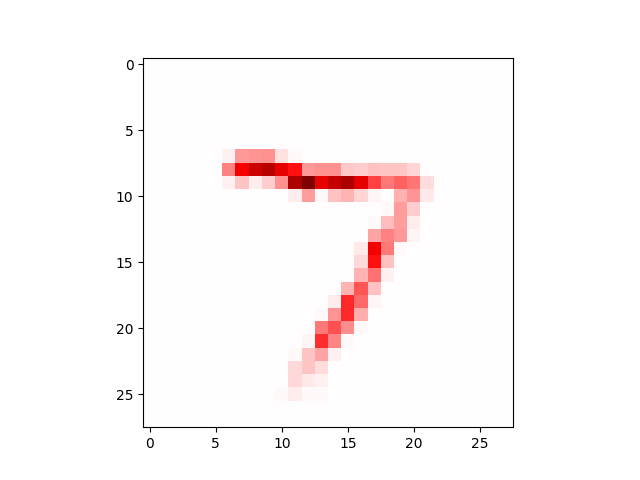
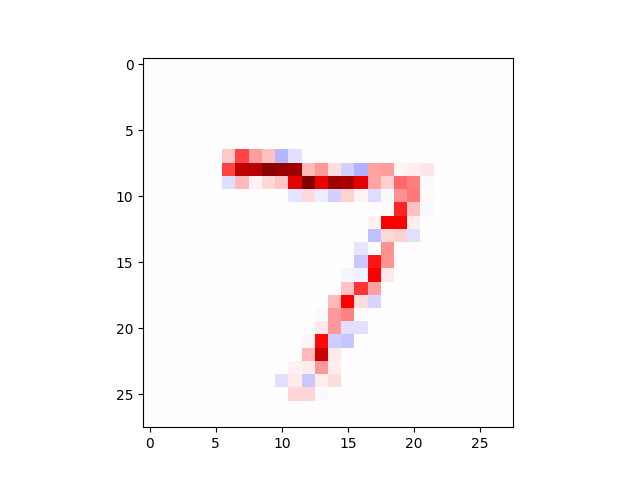
the reverse of LRP works

Changed region(s): [[0.3438, 0.3125, 0.6875, 0.8438]]

diff --git a/examples/Reverse_LRP.py b/examples/Reverse_LRP.py
@@ -6,6 +6,9 @@ from __future__ import \
 
 import numpy as np
 np.random.seed(42)
+import tensorflow.keras.backend as K
+import tensorflow.keras as keras
+import innvestigate.backend as kutils
 import tensorflow.keras.models as kmodels
 # import innvestigate as inn
 from importlib.machinery import SourceFileLoader
@@ -40,9 +43,9 @@ import tensorflow.keras.applications.inception_v3 as inception
 import keras.applications.vgg16 as vgg16
 import keras.applications.resnet as res
 import keras.applications.vgg19 as vgg19
-
+import innvestigate.backend as ibackend
 import keras.applications.inception_v3 as inception
-
+import innvestigate.backend.graph as kgraph
 import matplotlib.pyplot as plt
 import numpy as np
 import tensorflow as tf
@@ -54,36 +57,6 @@ import tensorflow as tf
 # import tensorflow_datasets as tfds
 
 
-@tf.function
-def compute_scaled_jacobian(z_k, s_k, x):
-    """
-    Computes the scaled Jacobian matrix of z_k with respect to x, scaled by s_k.
-    """
-    with tf.GradientTape() as tape:
-        tape.watch(x)
-        z_k_val = z_k(x)
-    jacobian = tape.jacobian(z_k_val, x, unconnected_gradients=tf.UnconnectedGradients.ZERO)
-    scaled_jacobian = tf.einsum('ijk,ik->ijk', jacobian, s_k)
-    return scaled_jacobian
-
-def compute_element_wise_product(a_j, scaled_jacobian):
-    """
-    Computes the element-wise product of activation matrix and scaled Jacobian.
-    """
-    return a_j[:, tf.newaxis] * scaled_jacobian
-
-def compute_relevance_proportion(R_jk, R_j):
-    """
-    Computes the proportion of relevance each neuron in a layer contributed.
-    """
-    return R_jk / tf.reduce_sum(R_jk, axis=-1, keepdims=True)
-
-def propagate_relevance_to_next_layer(P_jk, R_j_prime):
-    """
-    Computes the relevance to be distributed from one layer to the next.
-    """
-    return tf.einsum('ijk,ik->jk', P_jk, R_j_prime)
-
 # @tf.function
 # def forward_relevance_propagation(model, example_image, analysis):
 #     """
@@ -94,25 +67,37 @@ def propagate_relevance_to_next_layer(P_jk, R_j_prime):
 #     return new_relevance_j  # Reverse the list to match the layer order
 
 
-def compute_jacobian(activations, model, layer_index, s_k):
+def compute_jacobian(activations, model, layer_index, R_k):
     """
     Compute the scaled Jacobian matrix for a specific layer.
     """
+    # keep_positives = keras.layers.Lambda(lambda x: x * K.cast(K.greater(x, 0), K.floatx()))
+    # activations_pos = kutils.apply(keep_positives, activations)
+    
+    
+    prepare_div = keras.layers.Lambda(
+            lambda x: x + (K.cast(K.greater_equal(x, 0), K.floatx()) * 2 - 1) * 1e-7)
+    
+
     with tf.GradientTape() as tape:
         tape.watch(activations)
+        # layer = kgraph.copy_layer_wo_activation(
+        #      model.layers[layer_index], keep_bias=True, name_template="reversed_kernel_%s")
         # Forward pass to compute the intermediate activations
         intermediate_output = model.layers[layer_index](activations)
+        # intermediate_output =  kutils.apply(layer, [activations])
     
-    # Compute the Jacobian
     jacobian = tape.jacobian(intermediate_output, activations)
-
-    elements_list = s_k.shape.as_list()
-
+    intermediate_output_eps = prepare_div(intermediate_output)
+    sk = tf.divide(R_k, intermediate_output_eps)
+    # Compute the Jacobian
+    elements_list = list(sk.shape)
     for i in range(len(jacobian.shape) - len(elements_list)):
         elements_list.append(1)
 
-    jacobian = tf.multiply(jacobian, tf.cast(tf.reshape(s_k, elements_list), tf.float32))
-    return jacobian
+    sk_reshaped = tf.reshape(sk, elements_list)
+    jacobian_scaled = tf.multiply(jacobian, sk_reshaped)
+    return intermediate_output, jacobian_scaled, jacobian, intermediate_output_eps
 
 
 
@@ -154,13 +139,13 @@ if __name__ == "__main__":
     model.predict(example_image)
     # plt.show()
 
-    model_wo_softmax = innvestigate.model_wo_softmax(model)
+    # model_wo_softmax = innvestigate.model_wo_softmax(model)
 
     # Create analyzer
-    analyzer = innvestigate.create_analyzer("lrp.alpha_1_beta_0", model_wo_softmax)
+    analyzer = innvestigate.create_analyzer("lrp.epsilon", model)
 
     # Apply analyzer w.r.t. maximum activated output-neuron
-    analysis = analyzer.analyze(example_image)
+    analysis = analyzer.analyze(example_image) 
 
     # Visualize the result
 
@@ -174,43 +159,29 @@ if __name__ == "__main__":
 
     # P_jk = analysis[0]
     
-
-    # graph2 = tf.Graph()
-    # with graph2.as_default():
-    new_relevance_j = []
+    new_relevance_j = tf.cast(tf.convert_to_tensor(analysis[0]), tf.float32)
     J_kj_list = []
-    new_relevance_j.append(tf.cast(tf.convert_to_tensor(analysis[0]), tf.float32))
     a_j = tf.cast(tf.convert_to_tensor(example_image), tf.float32)
 
     for j in range(num_layers):  # Iterate backwards through layers
-        R_j = analysis[-(j+1)]
-        R_k = analysis[-(j+2)]
+        R_j = tf.convert_to_tensor(analysis[-(j+1)])
+        print(R_j)
+        R_k = tf.convert_to_tensor(analysis[-(j+2)])
+        print(R_k)
         # Compute scaled Jacobian matrix
-        
 
-        # intermediate_model = tf.keras.Model(inputs=model.input, outputs=model.layers[j].output)
-        # a_k = tf.convert_to_tensor(intermediate_model.predict(example_image))
-
-        intermediate_layer = model.get_layer(index=j)
-        a_k = intermediate_layer(a_j)
-        
-
-        s_k = tf.math.divide_no_nan(R_k, a_k)
-        J_kj_list.append(s_k)
-
-        J_kj = compute_jacobian(a_j, model, j, s_k)
+        a_k, J_kj, J_orig, a_k_eps = compute_jacobian(a_j, model, j, R_k)
        
-        
         perm_from_kj_to_jk =[]
         perm_from_jk_to_kj =[]
-        size_sk = len(s_k.shape)     
+        size_sk = len(R_k.shape)     
         size_Rj = len(R_j.shape)     
         
         for i in range(len(R_j.shape)):
             index = size_sk+ i
             perm_from_kj_to_jk.append(index)  
 
-        for i in range(len(s_k.shape)):
+        for i in range(len(R_k.shape)):
             index = size_Rj+ i
             perm_from_kj_to_jk.append(i) 
             perm_from_jk_to_kj.append(index)  
@@ -218,13 +189,23 @@ if __name__ == "__main__":
         for i in range(len(R_j.shape)):   
             perm_from_jk_to_kj.append(i)   
 
+        
+        # # A_jk =  tf.math.multiply(a_j, tf.ones_like(J_kj))
+        # A_jk = tf.math.multiply(a_j, tf.ones_like(R_k))
+        # A_jk =  tf.transpose(A_kj, perm_from_kj_to_jk)
 
-        # A_jk =  tf.math.multiply(a_j, tf.ones_like(J_kj))
-        A_kj = tf.math.multiply(a_j, tf.ones_like(J_kj))
-        A_jk =  tf.transpose(A_kj, perm_from_kj_to_jk)
+        elements_list = list(a_j.shape)
 
-        # Step 3: Element-wise product and division
-        R_jk = tf.math.multiply(A_jk, tf.transpose(J_kj, perm_from_kj_to_jk))
+        for i in range(len(J_kj.shape) - len(elements_list)):
+            elements_list.append(1)
+
+        a_j_reshaped = tf.reshape(a_j, elements_list)
+
+        # # Step 3: Element-wise product and division
+        R_jk = tf.math.multiply(a_j_reshaped, tf.transpose(J_kj, perm_from_kj_to_jk))
+
+        
+        # J_kj_list.append(tf.tensordot(tf.transpose(R_jk, perm_from_jk_to_kj), tf.ones_like(new_relevance_j[-1]), int(len(R_j.shape))))
 
         elements_list = list(R_j.shape)
 
@@ -233,15 +214,61 @@ if __name__ == "__main__":
 
         R_j_reshaped = tf.reshape(R_j, elements_list)
         P_jk = tf.math.divide_no_nan(R_jk, R_j_reshaped)
+
+        axis=[]
+        for i in range(len(R_k.shape)):   
+            axis.append(-(i+1))
+
+        new_relevance_j_reshaped = tf.reshape(new_relevance_j, elements_list)    
+        new_R_jk = tf.math.multiply(P_jk, new_relevance_j_reshaped)
+
+
+        axis=[]
+        for i in range(len(R_j.shape)):   
+            axis.append(i)
+
+        new_relevance_k = tf.reduce_sum(new_R_jk, axis=axis)
+
+        old_relevance_k = tf.reduce_sum(R_jk, axis=axis)
+
+
+
+        P_k = tf.math.divide_no_nan(new_relevance_k, old_relevance_k)
+
+
+
+
+
+
+        # J_kj_list.append(P_jk)
         
         # Step 4: Compute new relevances
-        new_relevance_k = tf.tensordot(tf.transpose(P_jk, perm_from_jk_to_kj), new_relevance_j[-1], int(len(R_j.shape)))
+
+        
+        # new_relevance_jk = tf.math.multiply(P_jk, tf.transpose(J_kj, perm_from_kj_to_jk))
+
+        # new_relevance_jk_prime = tf.math.divide_no_nan(new_relevance_jk, tf.transpose(J_orig, perm_from_kj_to_jk))
+
+        # elements_list = list(R_k.shape)
+
+        # for i in range(len(R_jk.shape) - len(elements_list)):
+        #     elements_list.insert(0, 1)
+
+        # a_k_reshaped = tf.reshape(a_k, elements_list)
+
+        # axis=[]
+        # for i in range(len(R_k.shape)):   
+        #     axis.append(-(i+1))
+        # J_kj_list.append(tf.reduce_sum(new_relevance_jk, axis=axis))
+
+        new_relevance_k = tf.math.multiply(R_k, P_k)
+        J_kj_list.append(new_relevance_k)
         a_j = a_k
-        new_relevance_j.append(new_relevance_k)
+        new_relevance_j = new_relevance_k
 
     pendulum_model = kmodels.Model(
             inputs=model.inputs,
-            outputs=new_relevance_j,
+            outputs=J_kj_list,
             name=f"pendulum_analyzer_model",
         )
     ret = pendulum_model.predict_on_batch(example_image)

diff --git a/innvestigate/analyzer/relevance_based/relevance_rule.py b/innvestigate/analyzer/relevance_based/relevance_rule.py
@@ -97,12 +97,12 @@ class EpsilonRule(kgraph.ReverseMappingBase):
     0 is considered to be positive, ie sign(0) = 1
     """
 
-    def __init__(self, layer, state, epsilon=1e-7, bias=True):
+    def __init__(self, layer, reverse_state, epsilon=1e-7, bias=True):
         self._epsilon = rutils.assert_lrp_epsilon_param(epsilon, self)
         self._layer_wo_act = kgraph.copy_layer_wo_activation(
             layer, keep_bias=bias, name_template="reversed_kernel_%s")
 
-    def apply(self, Xs, Ys, Rs, reversed_jacobian_Ys, reverse_state):
+    def apply(self, Xs, Ys, Rs, reversed_jacobian_Ys):
         grad = ilayers.GradientWRT(len(Xs))
         # The epsilon rule aligns epsilon with the (extended) sign: 0 is considered to be positive
         prepare_div = keras.layers.Lambda(
@@ -116,7 +116,7 @@ class EpsilonRule(kgraph.ReverseMappingBase):
                for a, b in zip(Rs, Zs)]
         # Propagate the relevance to input neurons
         # using the gradient.
-        tmp = iutils.to_list(grad(Xs + Zs + tmp))
+        tmp = kutils.to_list(grad(Xs + Zs + tmp))
         # Re-weight relevance with the input values.
         return [keras.layers.Multiply()([a, b])
                 for a, b in zip(Xs, tmp)]
@@ -125,7 +125,7 @@ class EpsilonRule(kgraph.ReverseMappingBase):
 class EpsilonIgnoreBiasRule(EpsilonRule):
     """Same as EpsilonRule but ignores the bias."""
 
-    def __init__(self, *args, **kwargs):
+    def __init__(self, layer, reverse_state, *args, **kwargs):
         super(EpsilonIgnoreBiasRule, self).__init__(*args,
                                                     bias=False,
                                                     **kwargs)
@@ -134,7 +134,7 @@ class EpsilonIgnoreBiasRule(EpsilonRule):
 class WSquareRule(kgraph.ReverseMappingBase):
     """W**2 rule from Deep Taylor Decomposition"""
 
-    def __init__(self, layer, state, copy_weights=False):
+    def __init__(self, layer, reverse_state, copy_weights=False):
         # W-square rule works with squared weights and no biases.
         if copy_weights:
             weights = layer.get_weights()
@@ -150,7 +150,7 @@ class WSquareRule(kgraph.ReverseMappingBase):
             weights=weights,
             name_template="reversed_kernel_%s")
 
-    def apply(self, Xs, Ys, Rs, reversed_jacobian_Ys, reverse_state):
+    def apply(self, Xs, Ys, Rs,  reverse_state):
         grad = ilayers.GradientWRT(len(Xs))
         # Create dummy forward path to take the derivative below.
         Ys = kutils.apply(self._layer_wo_act_b, Xs)
@@ -169,7 +169,7 @@ class WSquareRule(kgraph.ReverseMappingBase):
 class FlatRule(WSquareRule):
     """Same as W**2 rule but sets all weights to ones."""
 
-    def __init__(self, layer, state, copy_weights=False):
+    def __init__(self, layer, reverse_state, copy_weights=False):
         # The flat rule works with weights equal to one and
         # no biases.
         if copy_weights:

diff --git a/innvestigate/analyzer/relevance_based/relevance_analyzer.py b/innvestigate/analyzer/relevance_based/relevance_analyzer.py
@@ -577,8 +577,6 @@ class LRPEpsilon(_LRPFixedParams):
     """LRP-analyzer that uses the LRP-Epsilon rule"""
 
     def __init__(self, model, epsilon=1e-7, bias=True, *args, **kwargs):
-        epsilon = rutils.assert_lrp_epsilon_param(epsilon, self)
-        self._epsilon = epsilon
 
         class EpsilonProxyRule(rrule.EpsilonRule):
             """
